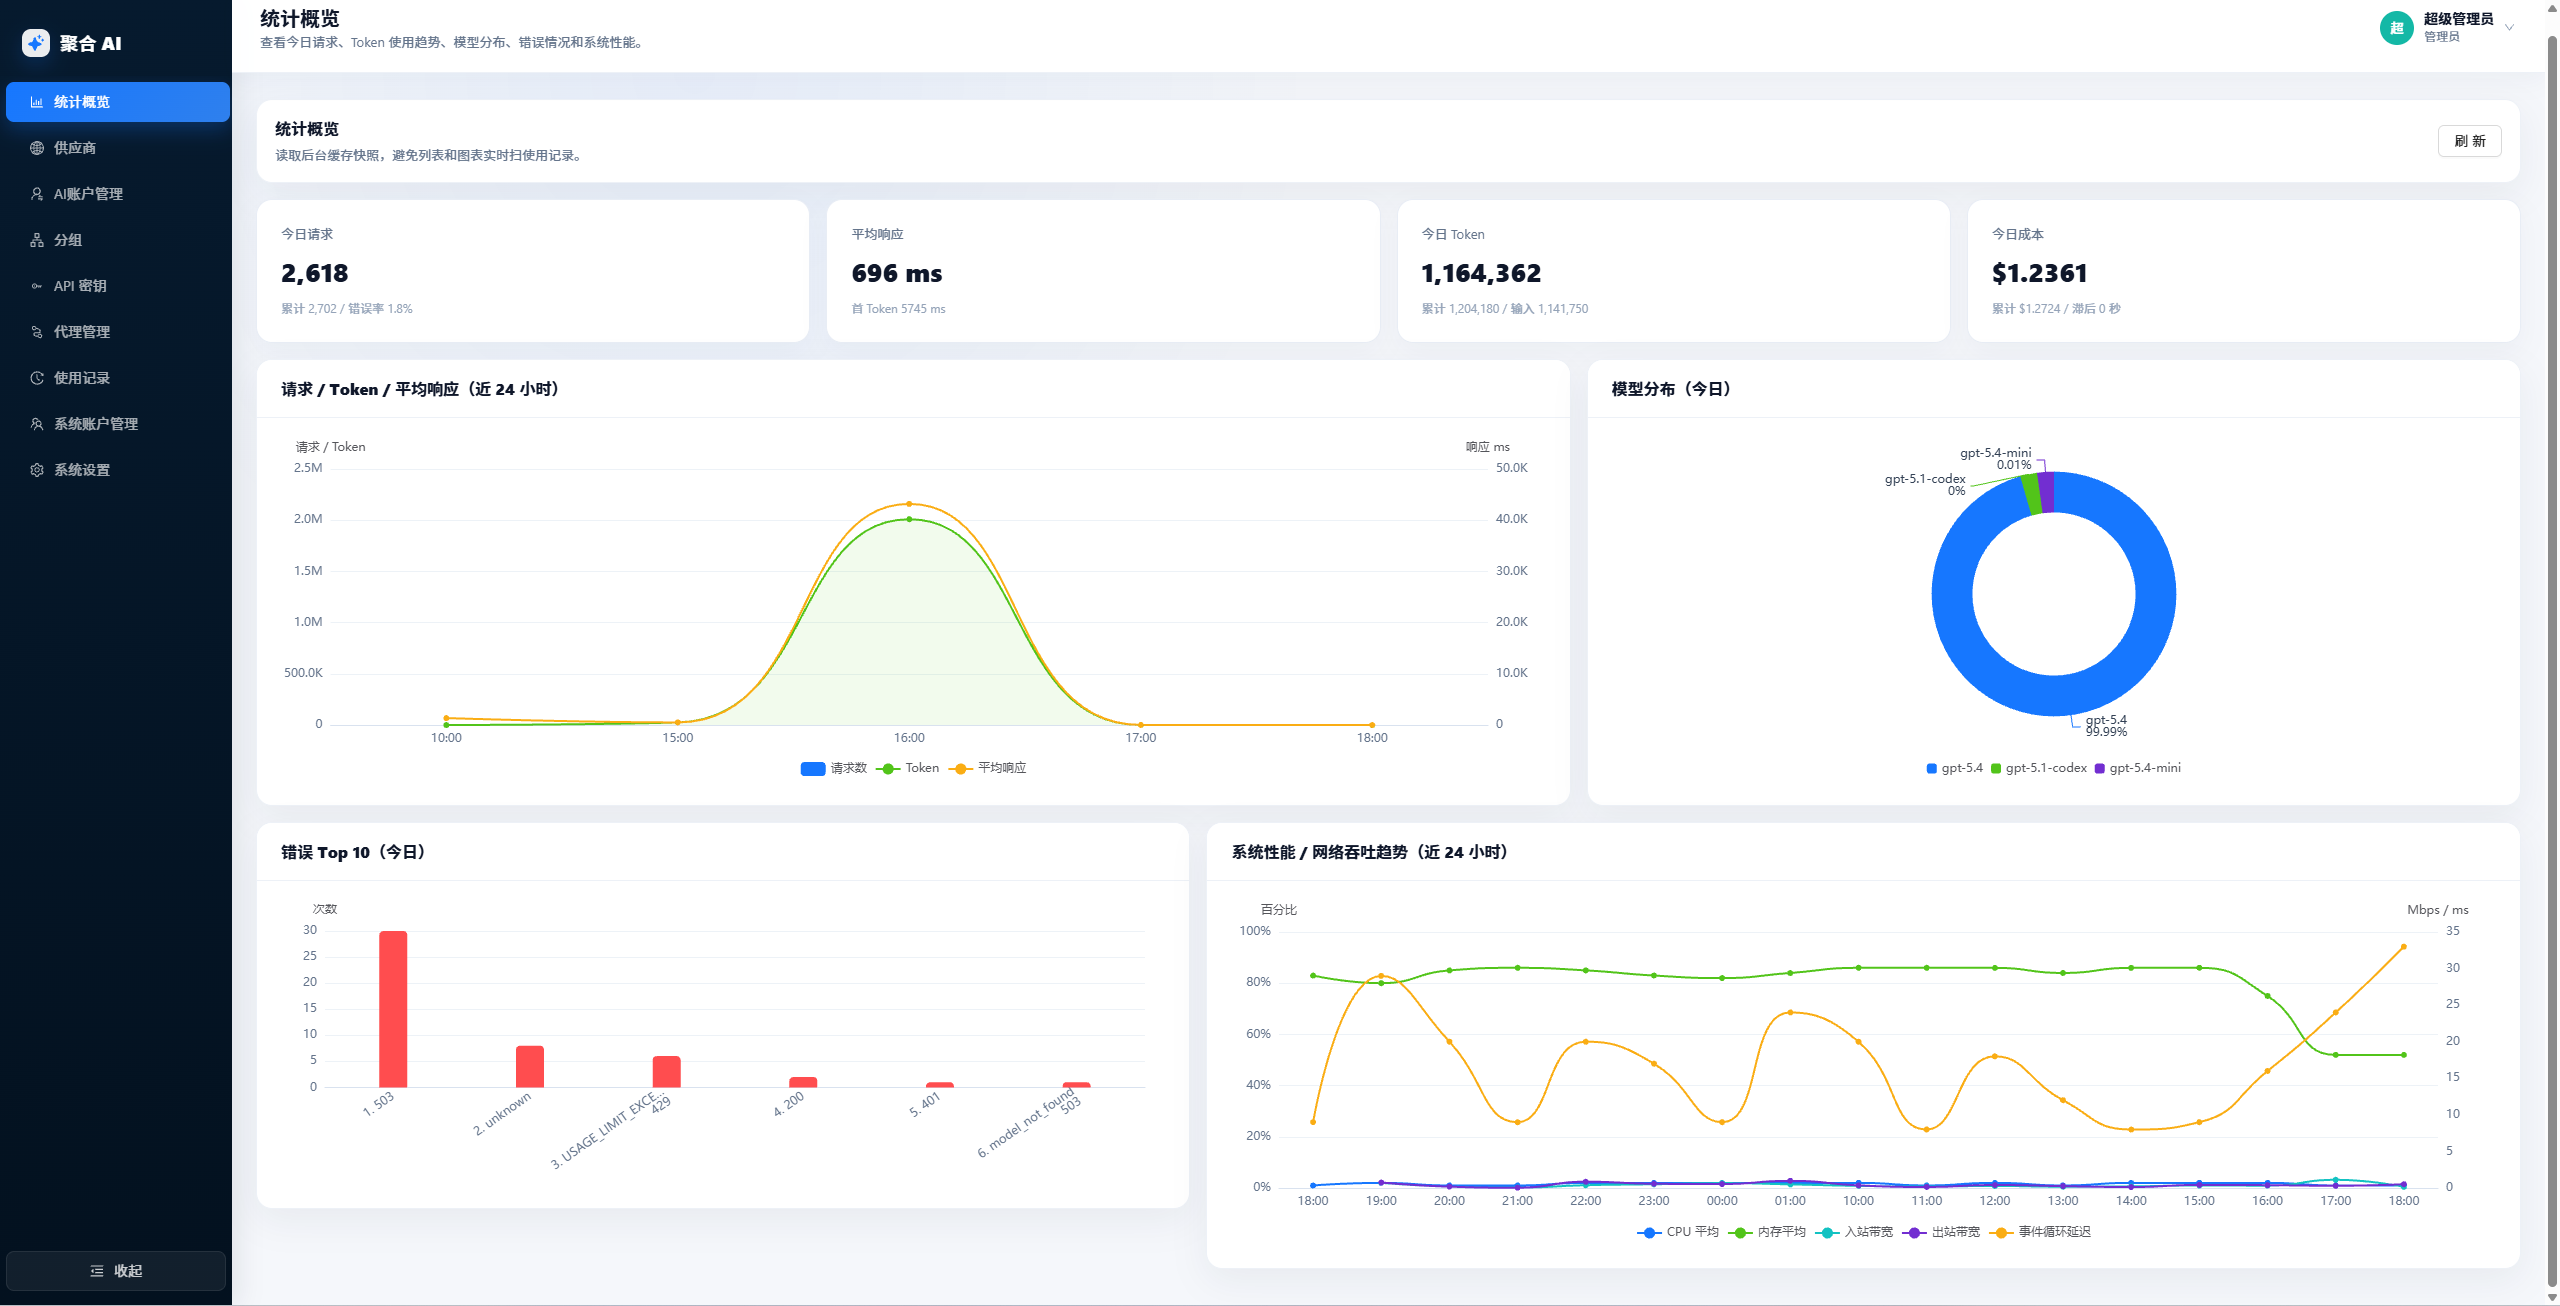
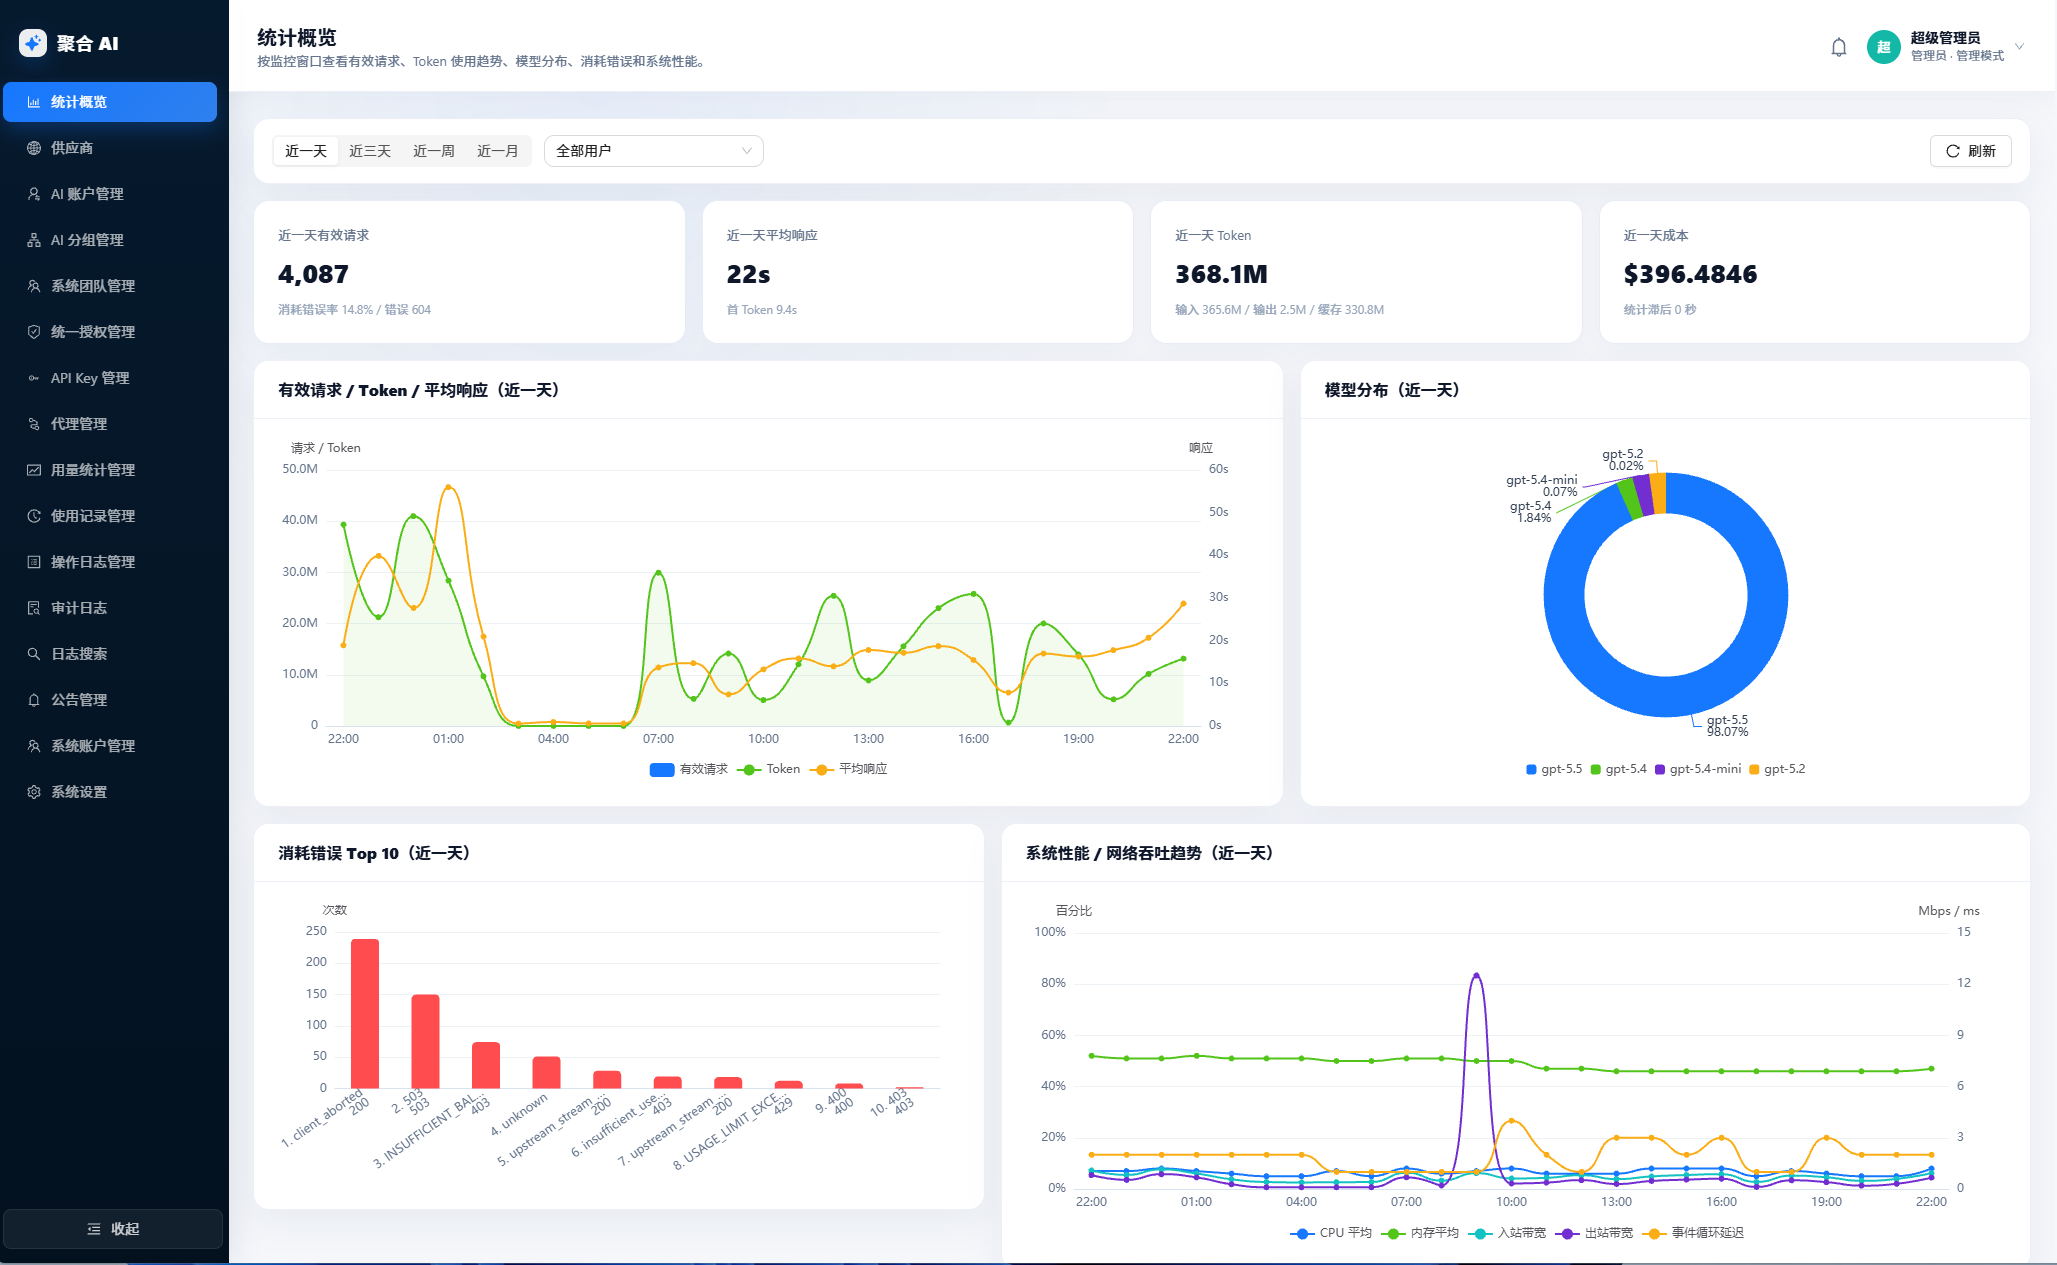
docs(deploy): 更新部署说明文档并优化统计概览页面
- 更新部署说明文档，精简内容并改善结构
- 更新首页说明文档，简化项目介绍
- 修改统计概览页面描述文字
- 优化统计图表组件，增加描述区域
- 更新统计趋势图的颜色和图例配置
- 添加失败请求和平均总耗时等统计指标
- 优化错误分布图表的数据展示
- 调整统计概览页面布局和组件结构

diff --git a/backend/src/storage/usage-stats-helpers.ts b/backend/src/storage/usage-stats-helpers.ts
@@ -1,4 +1,7 @@
-import type { AccountUsageSummary, UsageByWindow, UsageStatsWindowDefinition } from '../domain/types.js'
+import type { AccountUsageDailyPoint, AccountUsageStatsRange, AccountUsageSummary, UsageByWindow, UsageStatsWindowDefinition } from '../domain/types.js'
+
+const dayMs = 24 * 60 * 60 * 1000
+export const ACCOUNT_USAGE_STATS_MAX_RANGE_DAYS = 31
 
 export const USAGE_STATS_WINDOWS: UsageStatsWindowDefinition[] = [
   { key: 'last1d', label: '近1天', days: 1 },
@@ -17,6 +20,13 @@ export function emptyAccountUsageSummary(): AccountUsageSummary {
     cacheReadTokens: 0,
     totalTokens: 0,
     totalCost: 0
+  }
+}
+
+export function emptyAccountUsageDailyPoint(statDate: string): AccountUsageDailyPoint {
+  return {
+    statDate,
+    ...emptyAccountUsageSummary()
   }
 }
 
@@ -84,6 +94,37 @@ export function dateKey(date = new Date()): string {
   return `${year}-${month}-${day}`
 }
 
+export function normalizeAccountUsageStatsRange(input: { startDate?: string; endDate?: string } = {}): AccountUsageStatsRange {
+  const today = startOfLocalDay(new Date())
+  const defaultStart = addDays(today, -(ACCOUNT_USAGE_STATS_MAX_RANGE_DAYS - 1))
+  let end = parseDateKey(input.endDate) ?? today
+  if (end > today) {
+    end = today
+  }
+  let start = parseDateKey(input.startDate) ?? defaultStart
+  if (start > end) {
+    start = end
+  }
+  const earliestStart = addDays(end, -(ACCOUNT_USAGE_STATS_MAX_RANGE_DAYS - 1))
+  if (start < earliestStart) {
+    start = earliestStart
+  }
+  return {
+    startDate: dateKey(start),
+    endDate: dateKey(end),
+    days: daysBetweenInclusive(start, end),
+    maxDays: ACCOUNT_USAGE_STATS_MAX_RANGE_DAYS
+  }
+}
+
+export function dateKeysInRange(range: Pick<AccountUsageStatsRange, 'startDate' | 'endDate'>): string[] {
+  const start = parseDateKey(range.startDate)
+  const end = parseDateKey(range.endDate)
+  if (!start || !end || start > end) return []
+  const days = Math.min(ACCOUNT_USAGE_STATS_MAX_RANGE_DAYS, daysBetweenInclusive(start, end))
+  return Array.from({ length: days }, (_, index) => dateKey(addDays(start, index)))
+}
+
 export function hourKey(date: Date): string {
   const year = date.getFullYear()
   const month = String(date.getMonth() + 1).padStart(2, '0')
@@ -101,4 +142,32 @@ export function averageFromSum(sum: unknown, count: unknown): number | undefined
   const numericSum = Number(sum ?? 0)
   const numericCount = Number(count ?? 0)
   return numericCount > 0 ? Math.round(numericSum / numericCount) : undefined
+}
+
+function parseDateKey(value?: string): Date | undefined {
+  if (!value) return undefined
+  const match = /^(\d{4})-(\d{2})-(\d{2})$/.exec(value)
+  if (!match) return undefined
+  const year = Number(match[1])
+  const month = Number(match[2])
+  const day = Number(match[3])
+  const date = new Date(year, month - 1, day)
+  if (date.getFullYear() !== year || date.getMonth() !== month - 1 || date.getDate() !== day) {
+    return undefined
+  }
+  return startOfLocalDay(date)
+}
+
+function startOfLocalDay(date: Date): Date {
+  return new Date(date.getFullYear(), date.getMonth(), date.getDate())
+}
+
+function addDays(date: Date, days: number): Date {
+  const next = new Date(date)
+  next.setDate(next.getDate() + days)
+  return next
+}
+
+function daysBetweenInclusive(start: Date, end: Date): number {
+  return Math.max(1, Math.floor((startOfLocalDay(end).getTime() - startOfLocalDay(start).getTime()) / dayMs) + 1)
 }

diff --git a/backend/src/domain/types.ts b/backend/src/domain/types.ts
@@ -235,6 +235,17 @@ export interface UsageStatsWindowDefinition {
 
 export type UsageByWindow = Record<UsageStatsWindowKey, AccountUsageSummary>
 
+export interface AccountUsageStatsRange {
+  startDate: string
+  endDate: string
+  days: number
+  maxDays: number
+}
+
+export interface AccountUsageDailyPoint extends AccountUsageSummary {
+  statDate: string
+}
+
 export interface ResourcePermissions {
   canUse: boolean
   canEdit: boolean
@@ -350,6 +361,8 @@ export interface AccountUsageStatsRow {
   status: AccountStatus
   accessType?: ResourceAccessType
   usageByWindow: UsageByWindow
+  rangeUsage: AccountUsageSummary
+  dailyUsage: AccountUsageDailyPoint[]
   authorizationUsageAvailable: boolean
   authorizationCount: number
   authorizationTeamCount: number
@@ -357,6 +370,8 @@ export interface AccountUsageStatsRow {
 
 export interface AccountUsageStatsOverview {
   windows: UsageStatsWindowDefinition[]
+  range: AccountUsageStatsRange
+  summary: AccountUsageSummary
   rows: AccountUsageStatsRow[]
   total: number
   page: number
